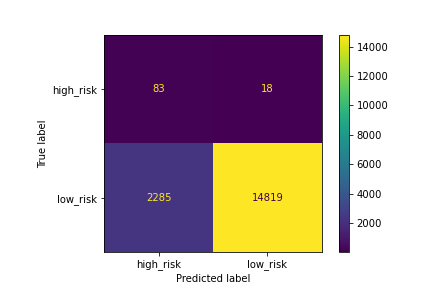
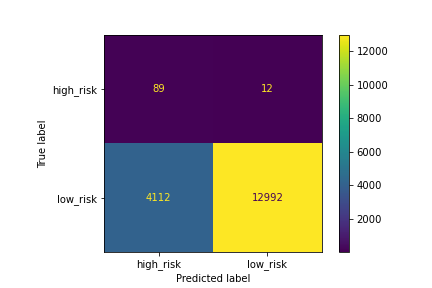
5th commit of code and readme files

diff --git a/README.md b/README.md
@@ -1,2 +1,74 @@
-# Credit_Risk_Analysis
-Credit_Risk_Analysis
+# Credit Risk Analysis
+## Overview
+Using the credit card credit dataset oversample the data using the RandomOverSampler and SMOTE algorithms, and undersample the data using the 
+ClusterCentroids algorithm. 
+
+Used a combinatorial approach of over- and undersampling using the SMOTEENN algorithm. 
+
+Last compare two new machine learning models that reduce bias,BalancedRandomForestClassifier and EasyEnsembleClassifier, to predict credit risk. 
+
+Once you’re done, you’ll evaluate the performance of these models and make a written recommendation on whether they should be used to predict credit risk.
+## Deliverables / Analysis
+
+### Results
+* The resampling Models did not generate good scores they had a low F1 score Less than 0.08
+* The EasyEnsambleClassifer did the best in classifing the loan score with an F1 score of 0.16. While not great it did preform the best out of all we tested.
+### Deliverables
+
+* Deliverable 1: Use Resampling Models to Predict Credit Risk
+* Deliverable 2: Use the SMOTEENN Algorithm to Predict Credit Risk
+* Deliverable 3: Use Ensemble Classifiers to Predict Credit Risk
+* Deliverable 4: A Written Report on the Credit Risk Analysis (README.md)
+### Deliverable 1: Use Resampling Models to Predict Credit Risk
+* For all 3 alorgitims,(RandomOverSampler, SMOTE, ClusterCentroids) the following have been completed:
+- Calculate the accuracy score of the model.
+- Generate a confusion matrix.
+- Print out the imbalanced classification report.
+(RandomOverSampler)
+- Calculate the accuracy score of the model. It was 0.833.
+- Generate a confusion matrix.
+![pic](./Images/Random_oversampling_Method_confusion_matrix.png)
+- Print out the imbalanced classification report.
+![pic](./Images/Random%20Over%20Sampling%20report.png)
+
+(SMOTE)
+- Calculate the accuracy score of the model.
+It was 0.833.
+- Generate a confusion matrix.
+![pic](./Images/SMOTE_Method_confusion_matrix.png)
+- Print out the imbalanced classification report.
+![pic](./Images/SMOTE_class_report.png)
+
+(ClusterCentroids)
+- Calculate the accuracy score of the model.
+It was 0.820.
+- Generate a confusion matrix.
+![pic](./Images/ClusterCentroids_confusion_matrix.png)
+- Print out the imbalanced classification report.
+![pic](./Images//ClusterCentroids_Report.png)
+
+### Deliverable 2: Use the SMOTEEN Algorithm to Predict Credit Risk
+(SMOTEEN)
+- Calculate the accuracy score of the model.
+It was 0.844.
+- Generate a confusion matrix.
+![pic](./Images/Smoteen_matrix.png)
+- Print out the imbalanced classification report.
+![pic](./Images/Smoteen_Report.png)
+### Deliverable 3: Use Ensemble Classifiers to Predict Credit Risk
+
+(Balanced Random Forest Classifier)
+- Calculate the accuracy score of the model.
+It was 0.759.
+- Generate a confusion matrix.
+![pic](./Images/BalancedRandomForestClassifier_Method_confusion_matrix.png)
+- Print out the imbalanced classification report.
+![pic](./Images/EasyEnsambleClassifier_report.png)
+
+(EasyEnsembleClassifier)
+- Calculate the accuracy score of the model.
+It was 0.932.
+- Generate a confusion matrix.
+![pic](./Images/EasyEnsembleClassifier_matrix.png)
+- Print out the imbalanced classification report.
+![pic](./Images/EasyEnsambleClassifier_report.png)
